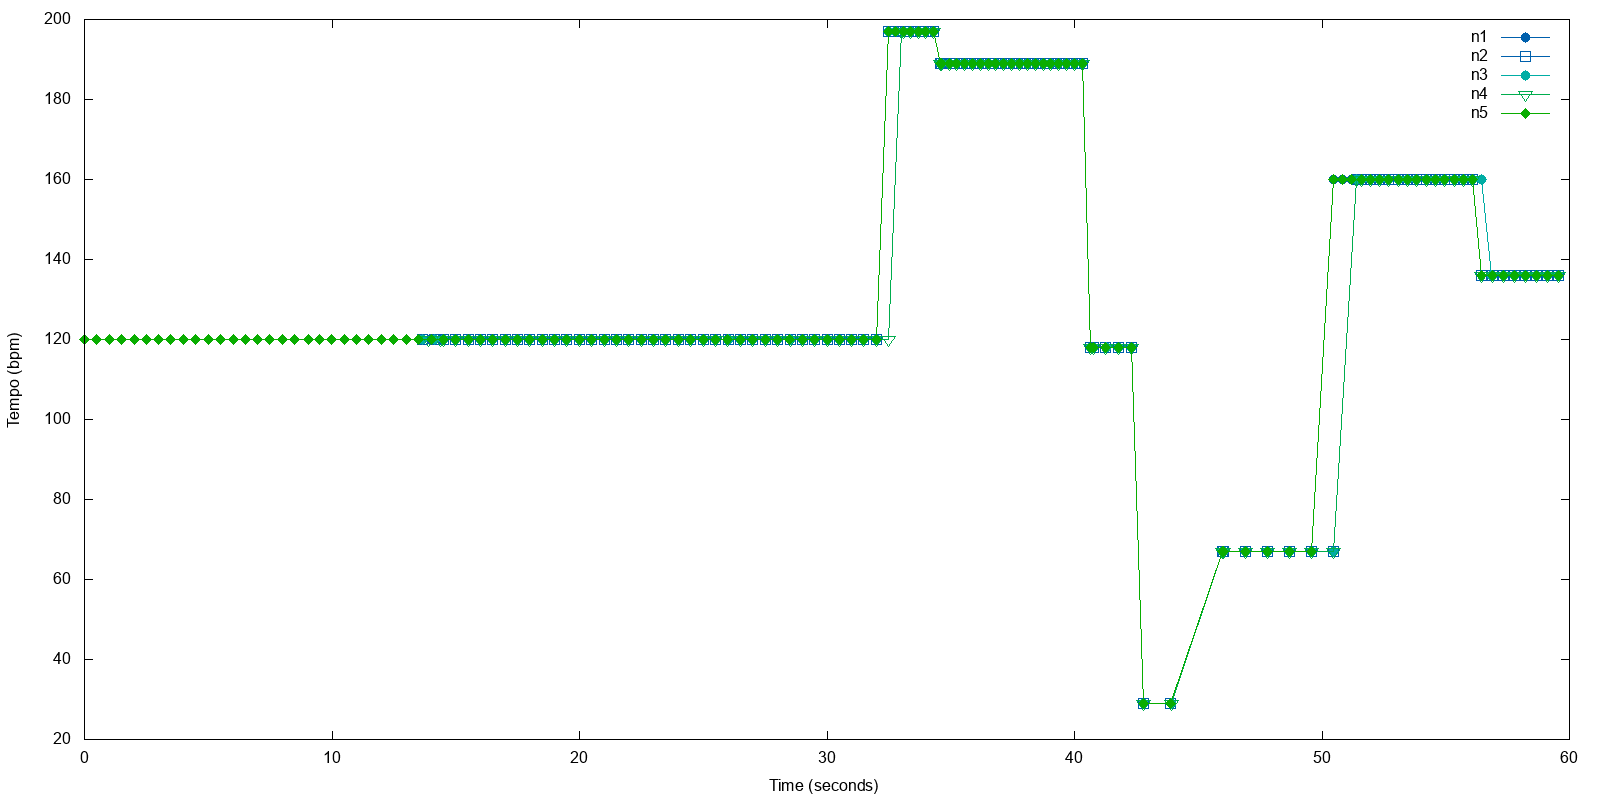
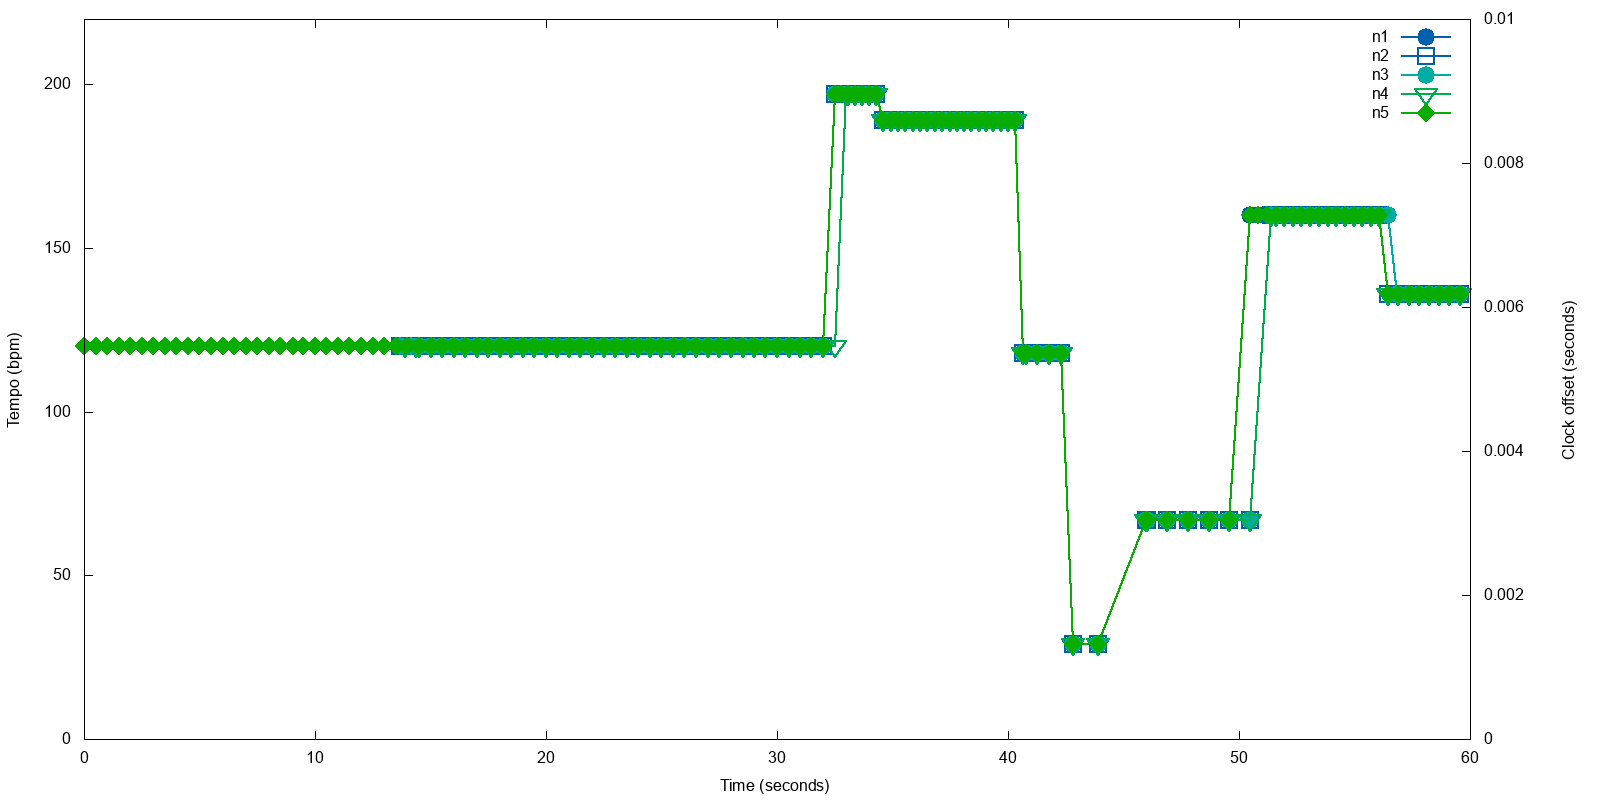
WIP: extract and graph offset measurements
Attempting to plot offset measurements relative to the leader in the
session. At the moment all nodes are within 1ms of each other but with a
4ms offset from the leader. This may be some kind of constant relating
to Docker networking.

The information would probably work just as well on two separate plots
which is an option if I can't get this to work.

diff --git a/tempo-grapher.rb b/tempo-grapher.rb
@@ -3,6 +3,8 @@ def get_node_name(line)
 end
 
 tempo_points = {}
+offset_measurements = []
+last_seen_now = 0.0
 
 ARGF.each do |l|
   begin
@@ -16,9 +18,23 @@ ARGF.each do |l|
       tempo_points[node]["beat_origin"] ||= data[:beat_zero]
 
       tempo_points[node]["values"] << data
+      last_seen_now = data[:now]
     when /result \(1, /
-      puts get_node_name(l)
-      puts l.scan /\(1, -(\d+)+\)/
+      # the leader of the session won't have a line like
+      # Joining session XA]am+uA with tempo 120
+      # unless they leave and then rejoin later
+      #
+      # the following line
+      # Session XA]am+uA measurement completed with result (1, -103650941860)
+      # the negative number is a timestamp in ns of where the node believes the
+      # beat origin of the leader is. The last three digits are sub ms precision
+      # Observations so far seem to suggest that the bounds are within 1ms of each other
+      #
+      # session leader doesn't measure against itself, obviously
+      node = get_node_name(l)
+      session_name = l.scan(/Session (.{8})/).flatten.first
+      offset = l.scan(/\(1, -(\d+)+\)/).flatten.first.to_f
+      offset_measurements << {node: node, session_name: session_name, offset: offset, last_seen_now: last_seen_now}
     else
       # ignore
       # puts l
@@ -30,6 +46,18 @@ end
 session_beat_origin = tempo_points.map {|k,v| v["values"].map{|y| y[:beat_zero] }.first }.sort.first
 data = tempo_points.map {|k,v| v["values"].map {|x| [x[:now] - session_beat_origin, x[:tempo]]} }
 
+puts "beat origin: #{session_beat_origin}"
+victorious_session = offset_measurements.sort_by {|h| h[:last_seen_now] }.last[:session_name]
+offset_measurements.reject! {|x| x[:session_name] != victorious_session }
+
+offset_measurements.map! {|x| [x[:node], x[:last_seen_now] - session_beat_origin, ((x[:offset] * 1e-6) - session_beat_origin).round(6)]}
+
+# WIP plotting clock offset measurements using y2 axis
+# would be nice to get labels with node names
+# setting y1 to be 0..250 would make for an easier scaling factor of 1000ms
+# maybe need to make it dynamic based on range of offsets
+offset_output = offset_measurements.group_by {|x| x.first }.map {|k,v| (["# #{k}"] << v.map {|x| (x.flatten[1..2] << k).join("\t") }).join("\n") }.join("\n\n\n")
+
 output = data.map {|node| node.map {|line| line.join("\t") }.join("\n") }.join("\n\n\n")
 
 File.open('test_output.rbdump', 'wb') do |file|
@@ -40,42 +68,55 @@ File.open('plot_data.dat', 'wb') do |file|
   IO.write(file, output)
 end
 
+File.open('offset_data.dat', 'wb') do |file|
+  IO.write(file, offset_output)
+end
+
 def gnuplot(commands)
   IO.popen("gnuplot", "w") { |io| io.puts commands }
 end
 
 commands = %Q(
-  set terminal png size 1600,800;
+  set terminal png enhanced size 1600,800;
   set output "plot.png"
 
   set xlabel 'Time (seconds)'
   set ylabel 'Tempo (bpm)'
+  set y2label "Clock offset (seconds)"
+
+  set yrange [0:220]
+  set ytics nomirror
+  set y2tics
+  set y2range [0:0.01]
 
   # Set linestyle 1 to blue (#0060ad)
   set style line 1 \
       linecolor rgb '#0060ad' \
-      linetype 1 linewidth 1.5 \
-      pointtype 7 pointsize 1.5
+      linetype 1 linewidth 2.5 \
+      pointtype 7 pointsize 2.5
 
-  set style line 2  lc rgb '#0025ad' lt 1 lw 1.5 pt 2 ps 1.5# --- blue
-  set style line 3  lc rgb '#0042ad' lt 1 lw 1.5 pt 3 ps 1.5#      .
-  set style line 4  lc rgb '#0060ad' lt 1 lw 1.5 pt 4 ps 1.5#      .
-  set style line 5  lc rgb '#007cad' lt 1 lw 1.5 pt 5 ps 1.5#      .
-  set style line 6  lc rgb '#0099ad' lt 1 lw 1.5 pt 6 ps 1.5#      .
-  set style line 7  lc rgb '#00ada4' lt 1 lw 1.5 pt 7 ps 1.5#      .
-  set style line 8  lc rgb '#00ad88' lt 1 lw 1.5 pt 8 ps 1.5#      .
-  set style line 9  lc rgb '#00ad6b' lt 1 lw 1.5 pt 9 ps 1.5#      .
-  set style line 10 lc rgb '#00ad4e' lt 1 lw 1.5 pt 10 ps 1.5#      .
-  set style line 11 lc rgb '#00ad31' lt 1 lw 1.5 pt 11 ps 1.5#      .
-  set style line 12 lc rgb '#00ad14' lt 1 lw 1.5 pt 12 ps 1.5#      .
-  set style line 13 lc rgb '#09ad00' lt 1 lw 1.5 pt 13 ps 1.5# --- green
+  set style line 2  lc rgb '#0025ad' lt 1 lw 2.5 pt 2 ps 2.5# --- blue
+  set style line 3  lc rgb '#0042ad' lt 1 lw 2.5 pt 3 ps 2.5#      .
+  set style line 4  lc rgb '#0060ad' lt 1 lw 2.5 pt 4 ps 2.5#      .
+  set style line 5  lc rgb '#007cad' lt 1 lw 2.5 pt 5 ps 2.5#      .
+  set style line 6  lc rgb '#0099ad' lt 1 lw 2.5 pt 6 ps 2.5#      .
+  set style line 7  lc rgb '#00ada4' lt 1 lw 2.5 pt 7 ps 2.5#      .
+  set style line 8  lc rgb '#00ad88' lt 1 lw 2.5 pt 8 ps 2.5#      .
+  set style line 9  lc rgb '#00ad6b' lt 1 lw 2.5 pt 9 ps 2.5#      .
+  set style line 10 lc rgb '#00ad4e' lt 1 lw 2.5 pt 10 ps 2.5#      .
+  set style line 11 lc rgb '#00ad31' lt 1 lw 2.5 pt 11 ps 2.5#      .
+  set style line 12 lc rgb '#00ad14' lt 1 lw 2.5 pt 12 ps 2.5#      .
+  set style line 13 lc rgb '#09ad00' lt 1 lw 2.5 pt 13 ps 2.5# --- green
 
   # plot for [n=1:5] 'plot_data.dat' with lines linestyle n
   plot 'plot_data.dat' index 0 title 'n1' with linespoints linestyle 1, \
      ''                index 1 title 'n2' with linespoints linestyle 4, \
      ''                index 2 title 'n3' with linespoints linestyle 7, \
      ''                index 3 title 'n4' with linespoints linestyle 10, \
-     ''                index 4 title 'n5' with linespoints linestyle 13, \
+     ''                index 4 title 'n5' with linespoints linestyle 13
+
+  plot 'offset_data.dat' index 0 using 1:2:(sprintf("%d",column(2))) with labels point offset character 0, character 1, \
+                      '' index 1 using 1:2:(sprintf("%d",column(2))) with labels point offset character 0, character 1, \
 )
 
 gnuplot(commands)
